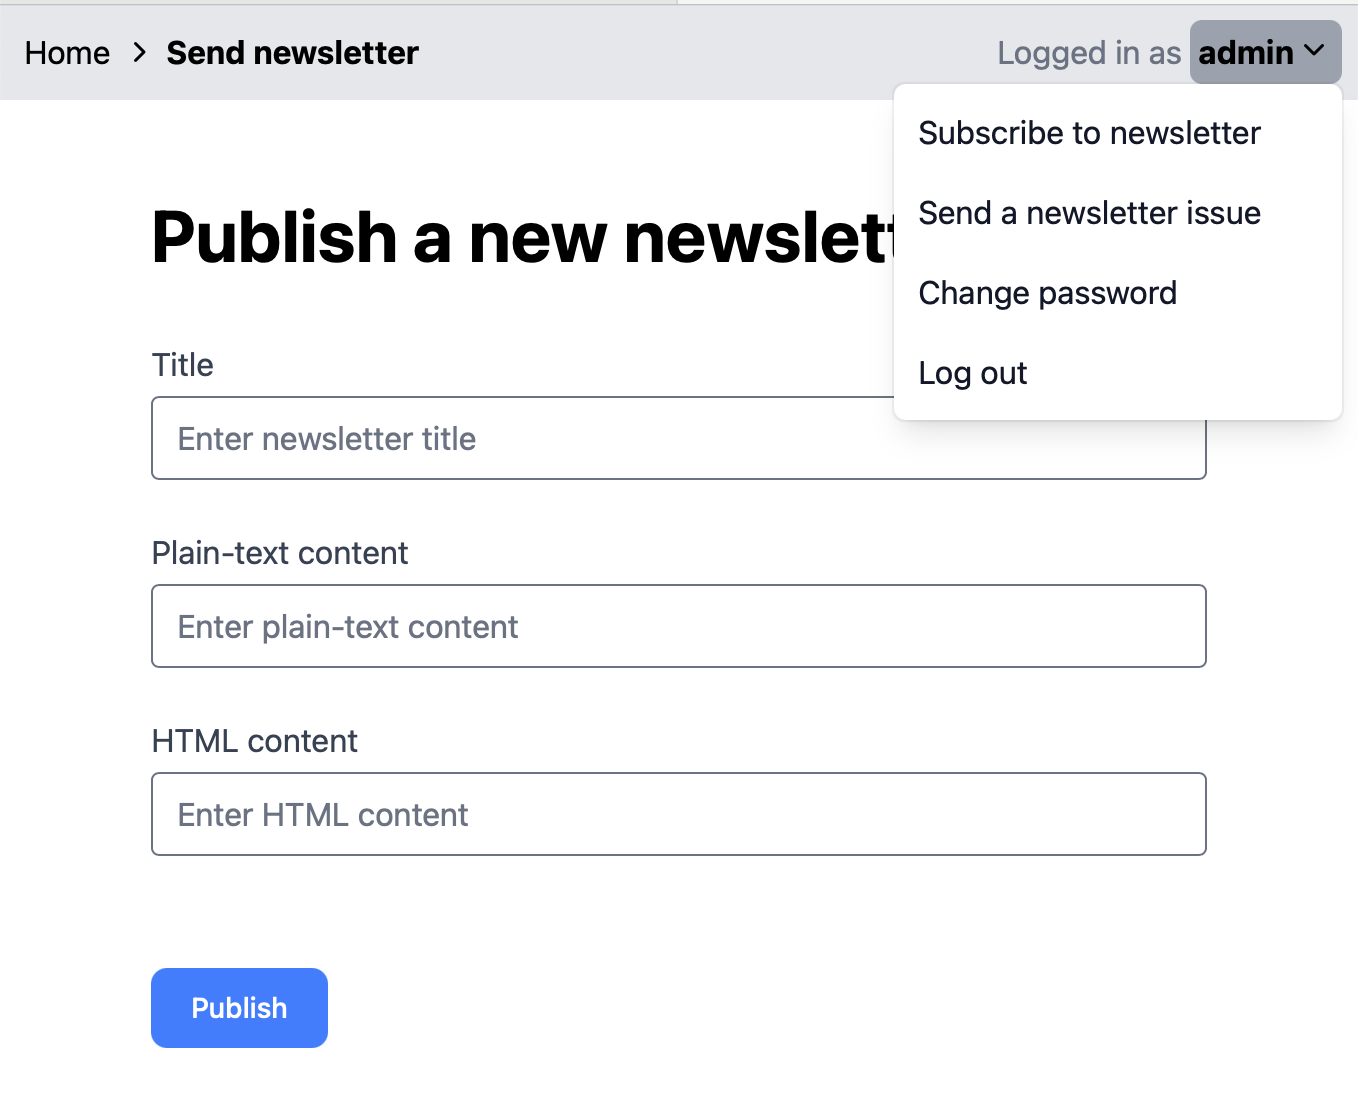
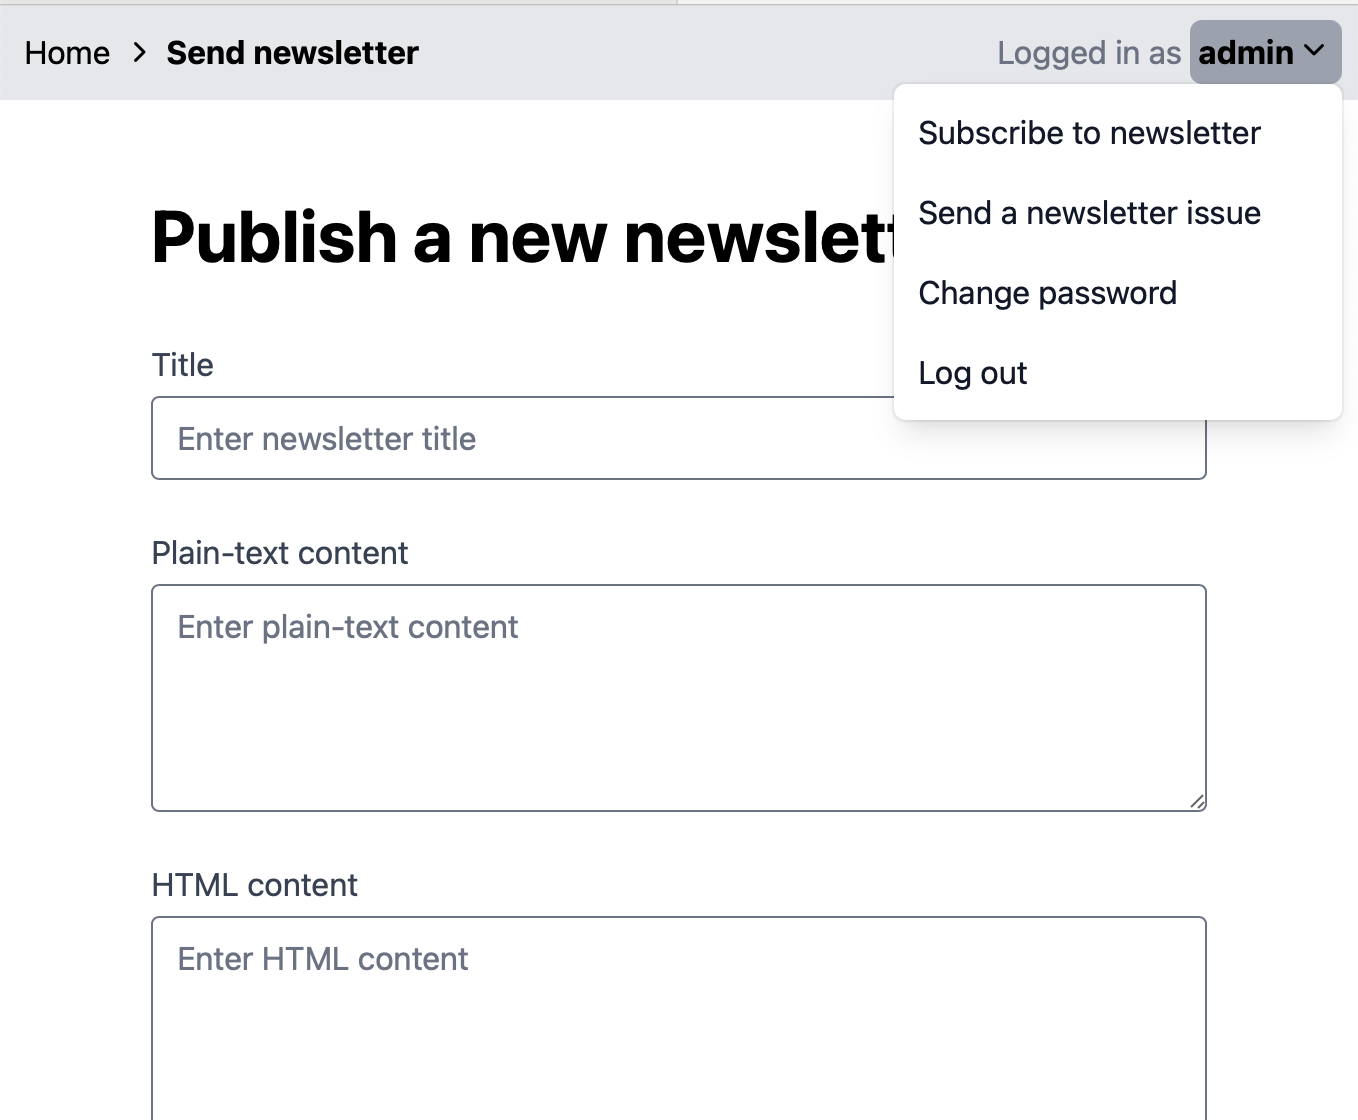
Use <textarea> in the SendNewsletterForm

diff --git a/frontend/src/SendNewsletterForm.vue b/frontend/src/SendNewsletterForm.vue
@@ -1,13 +1,13 @@
 <template>
   <AppForm heading="Publish a new newsletter issue" @submit="handleSubmit">
     <FormTextField v-model="title" id="title" label="Title" placeholder="Enter newsletter title" />
-    <FormTextField
+    <FormTextAreaField
       v-model="contentText"
       id="contentText"
       label="Plain-text content"
       placeholder="Enter plain-text content"
     />
-    <FormTextField
+    <FormTextAreaField
       v-model="contentHtml"
       id="contentHtml"
       label="HTML content"
@@ -28,6 +28,7 @@ import { v4 as uuidv4 } from 'uuid'
 import AppForm from './AppForm.vue'
 import AppMessages from './AppMessages.vue'
 import FormTextField from './FormTextField.vue'
+import FormTextAreaField from './FormTextAreaField.vue'
 import SubmitButton from './SubmitButton.vue'
 
 import { publishNewsletter } from './api.ts'

diff --git a/frontend/src/FormTextAreaField.vue b/frontend/src/FormTextAreaField.vue
@@ -1,0 +1,30 @@
+<template>
+  <div>
+    <label v-bind:for="id" class="text-gray-700">{{ label }}</label>
+    <textarea
+      v-model="model"
+      v-bind:id="id"
+      v-bind:placeholder="placeholder"
+      rows="4"
+      class="rounded mt-1 block w-full"
+    />
+  </div>
+</template>
+
+<script setup lang="ts">
+defineProps({
+  label: {
+    type: String,
+    required: true,
+  },
+  id: {
+    type: String,
+    required: true,
+  },
+  placeholder: {
+    type: String,
+    required: true,
+  },
+})
+const model = defineModel<string>({ required: true })
+</script>
